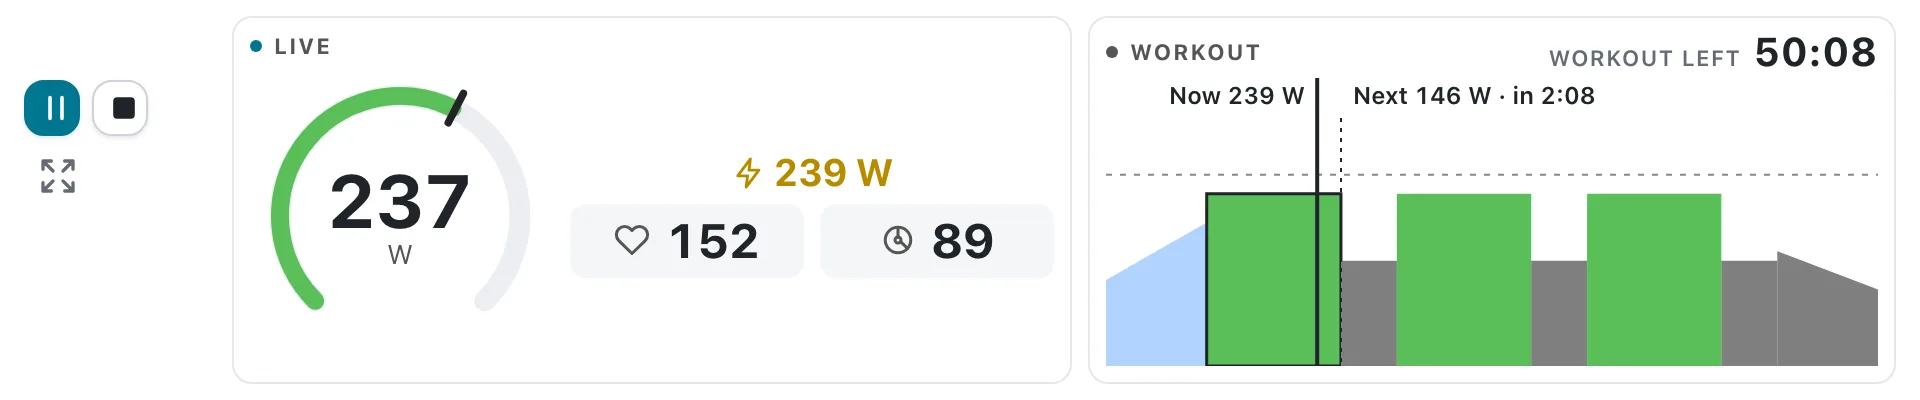
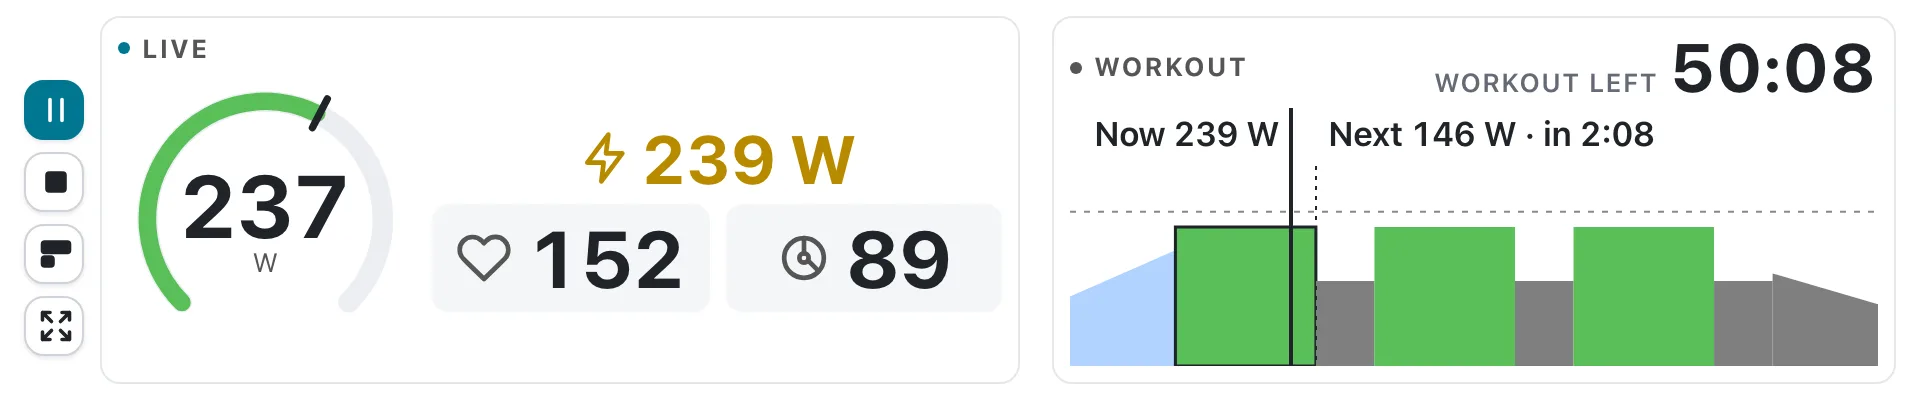
Stack the compact bar's buttons in one column and give the graph at least 60 % of a wide window

diff --git a/ui/css/views/compact.css b/ui/css/views/compact.css
@@ -136,9 +136,12 @@ body.compact-switching .ride > * { visibility: hidden; }
 .compact-ride[data-layout="h"] {
   flex-direction: row; gap: 8px;
   & .compact-head, & .compact-foot { display: none; }
-  & .compact-rail { display: flex; flex-direction: column; gap: 6px; flex: none; width: 96px; order: -1; }
+  /* the rail is one column of buttons: play, stop, layout, expand (the gear buttons take the layout button's place) */
+  & .compact-rail { display: flex; flex-direction: column; align-items: flex-start; gap: 6px; flex: none; order: -1; }
+  & .compact-rail .compact-ctl { flex-direction: column; }
+  & .compact-rail:has(.cmp-gears:not([hidden])) .cmp-layout { display: none; }
   /* a bar: the window is held to 195-200 px (ride_window_bar, BAR_HEIGHT in ride_window.rs), so the panels stop at 200 minus the 16 px padding */
-  & .compact-main { container-type: size; display: grid; grid-template-columns: minmax(300px, 460px) minmax(16px, 1fr) minmax(190px, 1400px); column-gap: 0; align-self: flex-start; height: min(100%, 184px); width: 100%; }
+  & .compact-main { container-type: size; display: grid; grid-template-columns: minmax(300px, 460px) 16px minmax(max(190px, min(60vw, 100vw - 540px)), 1fr); column-gap: 0; align-self: flex-start; height: min(100%, 184px); width: 100%; }
   & .cp-gap { display: block; min-width: 0; }
   & .cp-live .cp-body { flex-direction: row; align-items: center; gap: 10px; }
   & .cp-live .cp-cell { width: auto; height: 100%; max-height: 150px; aspect-ratio: 1; margin-inline: 0; }
@@ -158,12 +161,10 @@ body.compact-switching .ride > * { visibility: hidden; }
     & .cg-lab { font-size: 17px; }
   }
 }
-:root[data-os="mac"] .compact-ride[data-layout="h"] .compact-rail { padding-top: 32px; }
-/* rail buttons are 28 px so play / stop, expand and the gear row fit 150 px of window height beside the macOS window buttons */
-.compact-rail {
-  & .rail-row { display: flex; align-items: center; gap: 6px; }
-  & .compact-gears { gap: 2px; }
-}
+/* the macOS window buttons (about 80 px wide from the window edge) sit over the top of the rail and the panels' headings: the panels start right of them */
+:root[data-os="mac"] .compact-ride[data-layout="h"] .compact-rail { padding-top: 32px; min-width: 66px; align-items: center; }
+/* play, stop, layout and expand (4 × 30 px + gaps) fit the 195 px bar below the macOS window buttons */
+.compact-rail .compact-gears { gap: 2px; }
 .cmp-gear-n { min-width: 20px; text-align: center; }
 /* below 244 px of height the heading row has no room for the status dot, the gears or the layout switch (keyboard and controller still shift, V still switches) */
 .compact-ride[data-foot="head"] .compact-head {

diff --git a/ui/js/ride/ride.js b/ui/js/ride/ride.js
@@ -243,9 +243,7 @@ class Ride {
         </div>
         <div class="compact-foot" data-tauri-drag-region>${cmpCtl}${cmpWl}</div>
         <div class="compact-rail" data-tauri-drag-region>
-          <div class="rail-row" data-tauri-drag-region>${cmpCtl}</div>
-          <div class="rail-row" data-tauri-drag-region>${cmpExpand}${cmpLayout}</div>
-          <div class="rail-row" data-tauri-drag-region>${cmpGears}</div>
+          ${cmpCtl}${cmpLayout}${cmpExpand}${cmpGears}
         </div>
       </section>
       <div class="ready" id="ready"><div><b>${tHtml('ready')}</b><span>${tHtml('readyText')}${trainer.connected && html` ${tHtml('readyPedal')}`}.</span></div>

diff --git a/AGENTS.md b/AGENTS.md
@@ -290,7 +290,7 @@ UI (vanilla ES modules) ──invoke(cmd, args)──▶ Rust commands (lib.rs) 
 - **Workout rows (`.wrow`):** never give the action column a fixed width; translated labels are up to twice as long as English. The columns live on the list (`.wlist`, and `.weeks` around all weeks of a plan) and rows use `grid-template-columns: subgrid`, so the action column grows to the widest row and every row stays aligned. With subgrid the row's 14 px padding comes out of the edge tracks (first track 40 = 26 + 14). Anything else placed in a `.wlist` must span `1 / -1`.
 - **Settings (`openSettings()` in views/settings.js):** one save model: every control writes `state.settings` and calls `save()` (→ `api.saveState()`) on change; numbers on `change` only when valid (`FIELDS` with min/max from the input, zones must increase), otherwise a `.field-err` line and `aria-invalid`, nothing saved. There is no Save/Cancel and no theme revert; Done/✕ refuse to close while a field is invalid (they focus it), Esc and a backdrop click always close. Views redraw once when Settings ends (`onDialogEnd`, `settingsDirty`): closed, or replaced by a confirmation it opens; never while typing. Tabs: `rider`, `riding` (sounds, ride behaviour, virtual shifting with gear tuning under *Advanced*), `sync` (Connections), `app` (appearance, language, folder, devices, updates, About). New options go into the matching tab and group; segmented controls use `segRow()`.
 - **Top bar:** it is identical on every full-size screen, including during a ride. Don't add controls there; use Settings or a "⋯" menu. The one exception is the icon-only compact-view button (`#btn-compact`, before the rider avatar), which is hidden outside a ride. Optional Compact view hides it entirely; expand restores it unchanged.
-- **Compact ride view (`compact.js`, `ride_window.rs`):** same Ride and same native window. `CompactView.set(bool)` serializes IPC and changes CSS only after success; never call `Ride.build()` on resize. `ride_window` snapshots physical geometry once, lowers minimum size to 240 × 150 (`COMPACT_MIN`; initial 960 × 195 logical), and restores the normal 900 × 640 minimum/geometry/maximization. The compact geometry the rider used is remembered in state.json's root `compact` key (physical size and, where the OS reports it, position; never synced) and restored on the next entry; a remembered position that is no longer on a connected monitor is dropped, and leaving compact / closing the app during a ride stores the geometry (`remember_compact`). Failures roll back and allow retry; window positioning is best-effort so compositor restrictions do not block resizing. Leaving the ride uses `CompactView.leave()` (`ride_window` with `leave: true`): the restore is retried once; if it still fails, the minimum goes back to 900 × 640, the snapshot is dropped and the full view is applied anyway, so the window stays resizable and the next compact toggle starts fresh. Native fullscreen must be exited first. Stop/finish/close expand before dialogs/routing; `close()` finishes the teardown (ERG release, `ride = null`, routing) even when that restore fails, so the rider never stays on a dead ride screen. The compact section holds a live block (own compact `Gauge`, target line, heart-rate and cadence tiles) and the workout graph (`CompactGraph`, drawn into `#cmp-graph`), filled by `Ride.renderCompact()` next to the full-view values; a `ResizeObserver` (`Ride.cObs`, disconnected in `close()`) writes `compactMode(window.innerWidth, window.innerHeight)` (thresholds are window sizes) as `data-layout` (`v` vertical / `h` horizontal), `data-live`, `data-graph`, `data-foot`, `data-tiles` on `.compact-ride`, tells the graph its orientation and calls `fitTexts()`; CSS does the rest. Play/stop, expand, gears and "workout left" exist several times (heading row when short, footer, rail, graph header), all with the same `data-act`s (use `qsa`, never ids, for the copies). The graph redraws only on workout / orientation / size change; `update(at, labels)` runs from `renderCompact` while compact is active (and once on entering, via `render(true)`). Long values shrink 1 px at a time to the floor in `data-fit` (`fitTexts`): only when a text changed its length (`cmpFitKey`) or on resize, with transitions switched off while measuring (`.fit-measuring`; with Reduce motion a size set a moment ago would still read as the old one). The bar (horizontal layout) is a fixed 195 px high window from 640 px wide, the column is 240–320 px wide: `fitCompact` sends `ride_window_bar { bar }` (sent only on change; `bar_sizes()` in ride_window.rs builds the minimum and maximum; `ride_window` resets them on entering / leaving compact). Because the ranges never overlap, the layout is chosen with the `.cmp-layout` button (`data-act="layout"`) or the **V** key: `Ride.switchLayout()` remembers the current layout's window size, sets the other layout's limits (`ride_window_bar`), then resizes (`ride_window_size`). While the native window resizes on entering / leaving (`CompactView.busy`) `fitCompact` sends no limits (the in-between sizes passed through layouts of both kinds and set a 320 px maximum on the full view, which showed as a strange animation) and `body.compact-switching` hides the ride content. Leaving compact, `apply()` in ride_window.rs also hides the native window for ~150 ms: tao applies the minimum size at once (the window jumps, top edge fixed) and size and position later and asynchronously, so a visible window "rolled down" through the in-between sizes (macOS); it is shown again whatever the resize did. Changing the layout or any compact text: run `scripts/shots/compact-fit.mjs`. Thresholds, label rules and the design: `docs/superpowers/specs/2026-11-20-compact-graph-layout-design.md`. Only presentation changes; recording, ERG, test rules and controller/keyboard handling continue. Compact readouts use actual target/free/all-out mode, not test-estimated FTP. **C** toggles compact/full in `Ride.onKey` (no modifier, so Ctrl/Cmd+C stays copy). No new Tauri plugin permissions.
+- **Compact ride view (`compact.js`, `ride_window.rs`):** same Ride and same native window. `CompactView.set(bool)` serializes IPC and changes CSS only after success; never call `Ride.build()` on resize. `ride_window` snapshots physical geometry once, lowers minimum size to 240 × 150 (`COMPACT_MIN`; initial 960 × 195 logical), and restores the normal 900 × 640 minimum/geometry/maximization. The compact geometry the rider used is remembered in state.json's root `compact` key (physical size and, where the OS reports it, position; never synced) and restored on the next entry; a remembered position that is no longer on a connected monitor is dropped, and leaving compact / closing the app during a ride stores the geometry (`remember_compact`). Failures roll back and allow retry; window positioning is best-effort so compositor restrictions do not block resizing. Leaving the ride uses `CompactView.leave()` (`ride_window` with `leave: true`): the restore is retried once; if it still fails, the minimum goes back to 900 × 640, the snapshot is dropped and the full view is applied anyway, so the window stays resizable and the next compact toggle starts fresh. Native fullscreen must be exited first. Stop/finish/close expand before dialogs/routing; `close()` finishes the teardown (ERG release, `ride = null`, routing) even when that restore fails, so the rider never stays on a dead ride screen. The compact section holds a live block (own compact `Gauge`, target line, heart-rate and cadence tiles) and the workout graph (`CompactGraph`, drawn into `#cmp-graph`), filled by `Ride.renderCompact()` next to the full-view values; a `ResizeObserver` (`Ride.cObs`, disconnected in `close()`) writes `compactMode(window.innerWidth, window.innerHeight)` (thresholds are window sizes) as `data-layout` (`v` vertical / `h` horizontal), `data-live`, `data-graph`, `data-foot`, `data-tiles` on `.compact-ride`, tells the graph its orientation and calls `fitTexts()`; CSS does the rest. In the horizontal layout the rail is one column (play, stop, layout, expand; gears replace the layout button) and the graph track is `minmax(max(190px, min(60vw, 100vw - 540px)), 1fr)` after a 460 px live block and a 16 px gap (an `fr` maximum keeps the graph from sharing the live block's growth). Play/stop, expand, gears and "workout left" exist several times (heading row when short, footer, rail, graph header), all with the same `data-act`s (use `qsa`, never ids, for the copies). The graph redraws only on workout / orientation / size change; `update(at, labels)` runs from `renderCompact` while compact is active (and once on entering, via `render(true)`). Long values shrink 1 px at a time to the floor in `data-fit` (`fitTexts`): only when a text changed its length (`cmpFitKey`) or on resize, with transitions switched off while measuring (`.fit-measuring`; with Reduce motion a size set a moment ago would still read as the old one). The bar (horizontal layout) is a fixed 195 px high window from 640 px wide, the column is 240–320 px wide: `fitCompact` sends `ride_window_bar { bar }` (sent only on change; `bar_sizes()` in ride_window.rs builds the minimum and maximum; `ride_window` resets them on entering / leaving compact). Because the ranges never overlap, the layout is chosen with the `.cmp-layout` button (`data-act="layout"`) or the **V** key: `Ride.switchLayout()` remembers the current layout's window size, sets the other layout's limits (`ride_window_bar`), then resizes (`ride_window_size`). While the native window resizes on entering / leaving (`CompactView.busy`) `fitCompact` sends no limits (the in-between sizes passed through layouts of both kinds and set a 320 px maximum on the full view, which showed as a strange animation) and `body.compact-switching` hides the ride content. Leaving compact, `apply()` in ride_window.rs also hides the native window for ~150 ms: tao applies the minimum size at once (the window jumps, top edge fixed) and size and position later and asynchronously, so a visible window "rolled down" through the in-between sizes (macOS); it is shown again whatever the resize did. Changing the layout or any compact text: run `scripts/shots/compact-fit.mjs`. Thresholds, label rules and the design: `docs/superpowers/specs/2026-11-20-compact-graph-layout-design.md`. Only presentation changes; recording, ERG, test rules and controller/keyboard handling continue. Compact readouts use actual target/free/all-out mode, not test-estimated FTP. **C** toggles compact/full in `Ride.onKey` (no modifier, so Ctrl/Cmd+C stays copy). No new Tauri plugin permissions.
 - **Cross-platform (macOS, Windows, Linux):**
   - **Wording:** never hard-code "Finder", "macOS Trash" or "this Mac" in the UI. Use `PLAT` from core.js (`PLAT.files`, `PLAT.trash`, `PLAT.machine`, `PLAT.onThisMachine`, `PLAT.bt`, `PLAT.emojiKey`); each is read from the dictionary (`mac.files`, `win.trash`, …) so it follows the UI language. `OS` is `mac` / `win` / `linux` and is also set as `<html data-os>`.
   - **Layout:** the 92 px traffic-light gap in the top bar applies only to `:root[data-os="mac"]`; Windows and Linux have a normal title bar (`titleBarStyle`, `hiddenTitle` and `trafficLightPosition` are macOS-only keys).

diff --git a/DESIGN.md b/DESIGN.md
@@ -200,7 +200,7 @@ The workout clock (elapsed and remaining in the chart header) uses `clamp(22px, 
 ### Compact ride view
 
 - Optional compact-view icon button (`#btn-compact`, arrows pointing inward, no text) in the top bar just before the rider avatar, shown only during a ride; a compact presentation of the same Ride and native window, not another dashboard or another ride. It shows a **live block** (`.cp-live`: power-only gauge, target line, heart rate and cadence) and the **workout graph** (`.cp-graph`, drawn by `CompactGraph`). `compactMode()` picks the layout (`data-layout`): **vertical** (`v`, narrow windows: live block on top, graph below with time running down, footer with play/stop and workout left) or **horizontal** (`h`, width ≥ 640 and ≥ 1.5 × height: rail, live block, empty space, graph with time running across), plus `data-live` (`col` gauge above, `row` gauge beside), `data-graph`, `data-foot` (`foot` / `head` / `rail`) and `data-tiles`. Built once with the ride; no DOM is rebuilt on resize.
-- Hide the normal toolbar, panels, chart and ready overlay only in this view. The vertical layout has a 32 px draggable heading row (connection dot with tooltip, gears while free-like, expand); the horizontal one has a 96 px left rail (play/pause and stop, expand, gears) and no heading, so the window can be as flat as 195 px. On macOS, reserve the existing traffic-light space (80 px in the heading row, 32 px above the rail).
+- Hide the normal toolbar, panels, chart and ready overlay only in this view. The vertical layout has a 32 px draggable heading row (connection dot with tooltip, gears while free-like, expand); the horizontal one has a one-button-wide left rail, one column: play/pause, stop, layout switch, expand (the gear buttons take the layout switch's place while free-like); live block 300–460 px, a 16 px gap and the graph taking the rest, at least 60 % of the window width from 1400 px up (`100vw - 540px` bound so the live block keeps its 460 px first) and no heading, so the window can be as flat as 195 px. On macOS, reserve the existing traffic-light space (80 px in the heading row, 32 px above the rail).
 - Initial inner size **960 × 195**, minimum **240 × 150** logical pixels (the column). Horizontal values are larger because the bar is read from a distance: target 24 px, heart rate / cadence 30 px, workout left 26 px, graph labels 14 px, captions 12 px; in a tall bar (panels ≥ 170 px, a window up to 200 px) 34 / 40 / 34 / 17 / 13 px (a `@container` query on `.compact-main`); the gauge number is 30 % of the dial; they still shrink to fit in narrow windows. Horizontal: live block 300–460 px wide, at least 16 px between it and the graph, graph 190–1400 px wide (so it takes the extra width of a large screen and an empty gap only appears beyond about 1,900 px); the horizontal layout is a bar with a **fixed window height of 195 px** (from 640 px wide), the tall column is **240–320 px wide** at any height (`ride_window_bar`, `bar_sizes()` in ride_window.rs). The two ranges never overlap, so the layout switch button (`.cmp-layout` in the rail and in the heading row, it gives way to the gears in free-like segments and below 244 px high) and the **V** key are the way between them; each layout comes back at the window size it had last (defaults 960 × 195 and 300 × 640). The panels never stretch beyond 179 px and the large values below always apply. Vertical values: target 28 px (24 px in the row variant), gauge number 32 % of the dial, a single watts value on the graph up to 24 px (a range shrinks to the 80 px gutter). Vertical: gauge 116 px (`col`, from 520 px high) or 84 px (`row`), graph from 360 px high, footer joins the heading row below 244 px, heart rate and cadence hide below 190 px.
 - **Gauge:** power only, one arc with a short target tick (`g-tick`); no target arc, no inner ring, no FTP tick. **Target line:** bolt icon + watts, 19 px bold in the zone's text colour (`zoneInk`), no word "Target"; a ramp shows its range (`70–210 W`, en dash). **Heart rate / cadence:** icon + 24 px number, no label (the word is the tooltip and accessible name); cadence turns red when off target. **Graph:** bar length = % FTP (same scale as the full view's chart), dashed line = FTP, solid line = now, dotted line = start of the next segment, finished segments dimmed; "Now" label above the line and "Next" below the dotted line in the vertical layout, both in a strip above the bars in the horizontal one.
 - **Text sizes** come from the type scale: captions never go below `--fs-2xs` (11 px) and are hidden when they do not fit. Values shrink instead (`fitTexts()`, 1 px steps, never below the floor in `data-fit`: target 12, gauge number 16, workout left 14 and 12 in the heading row, tiles 14, graph watts 12), only when a value changes its length or the window is resized. Missing sensors show a dash. Free, max-effort and all-out targets use their words without a W unit. Keep virtual gear controls in free-like segments (not below 244 px high).

diff --git a/docs/superpowers/specs/2026-11-20-compact-graph-layout-design.md b/docs/superpowers/specs/2026-11-20-compact-graph-layout-design.md
@@ -71,7 +71,7 @@ Fixed parts at 240 px wide, measured in the mockups: heading 32; live block as `
 └──────────────────────────────────────────────────────────────────────────────────┘
 ```
 
-- **Left rail** (96 px, the space beside the macOS window buttons): play / pause and stop on one row, expand on the next. Gears (while free-like) join the rail as a small − / + row. No heading row: the window can be as flat as 150 px.
+- **Left rail** (one button wide, below the macOS window buttons): play / pause, stop, layout switch and expand in one column. Gears (while free-like) take the layout switch's place as a small − / + row. No heading row: the window can be as flat as 150 px.
 - **Live block:** gauge on the left (at most 150 px), target line and the two tiles to its right, vertically centred in the block when the window is taller. **Width 300–420 px.**
 - **Graph panel:** header "WORKOUT" on the left and workout left on the right (below 290 px panel width the label drops and only the number stays; the label is the tooltip). **Width 200–720 px.**
 - **Max widths:** on a wide window the live block stops at 420 px and the graph at 720 px; the leftover space is an empty gap *between* them (live block left, graph right). CSS: `grid-template-columns: minmax(300px, 420px) minmax(0, 1fr) minmax(200px, 720px)` (the middle track is the empty space; grid grows the outer tracks to their maximum before the flexible one).
@@ -160,7 +160,8 @@ These decisions were taken during testing and supersede the sections above where
 - **Window sizes, explicit layout choice.** The wide bar is a fixed **195 px** high window (from 640 px wide); the tall column is **240–320 px** wide at any height (minimum height 150). The ranges never overlap, so the layout is chosen with a switch button (rail and heading row) or the **V** key; `Ride.switchLayout()` sets the other layout's limits (`ride_window_bar`) and resizes (`ride_window_size`) to the size that layout had last (defaults 960 × 195 and 300 × 640). The first-time size is 960 × 195. The switch gives way to the gears in free-like segments and below 244 px high (V still works).
 - **Drag regions.** The wide layout has no heading row, so `data-tauri-drag-region` is on the rail, the gap, the footer and the panels.
 - **Equal buttons.** Play, stop, expand, layout switch and gear buttons are one 30 px size.
-- **Wide bar sizes.** Live block 300–460 px, at least 16 px gap, graph 190–1400 px (the graph takes the width of large screens). Values are large for reading from a distance: target 24 px, heart rate / cadence 30 px, workout left 26 px, graph labels 14 px, captions 12 px, and 34 / 40 / 34 / 17 / 13 px in a bar of 170 px and more (always the case at 195 px). The graph's label strip follows the CSS label size.
+- **Rail.** One column of 30 px buttons: play / pause, stop, layout switch, expand; the gear buttons replace the layout switch while free-like (V still switches). The rail is as wide as one button.
+- **Wide bar sizes.** Live block 300–460 px, a fixed 16 px gap, the graph takes everything else and is at least 60 % of the window width from 1400 px up (its minimum is `min(60vw, 100vw - 540px)`, so below that the live block keeps its 460 px first). Values are large for reading from a distance: target 24 px, heart rate / cadence 30 px, workout left 26 px, graph labels 14 px, captions 12 px, and 34 / 40 / 34 / 17 / 13 px in a bar of 170 px and more (always the case at 195 px). The graph's label strip follows the CSS label size.
 - **Tall column values.** Target 28 px (24 px in the row variant), gauge number 32 % of the dial, a single watts value on the graph up to 24 px (a range shrinks to the 80 px gutter, then an ellipsis). The label blocks were re-measured (NOW_MIN 54, NEXT_3 52, NEXT_2 40).
 - **Labels.** Gutter texts (kicker, watts, sub-line) shrink and are cut with an ellipsis, so French and German never reach the bars; the horizontal labels are measured only when a text or place changes.
 - **Gear buttons / status dot** are hidden below 244 px high in the tall layout (`data-foot="head"`).
